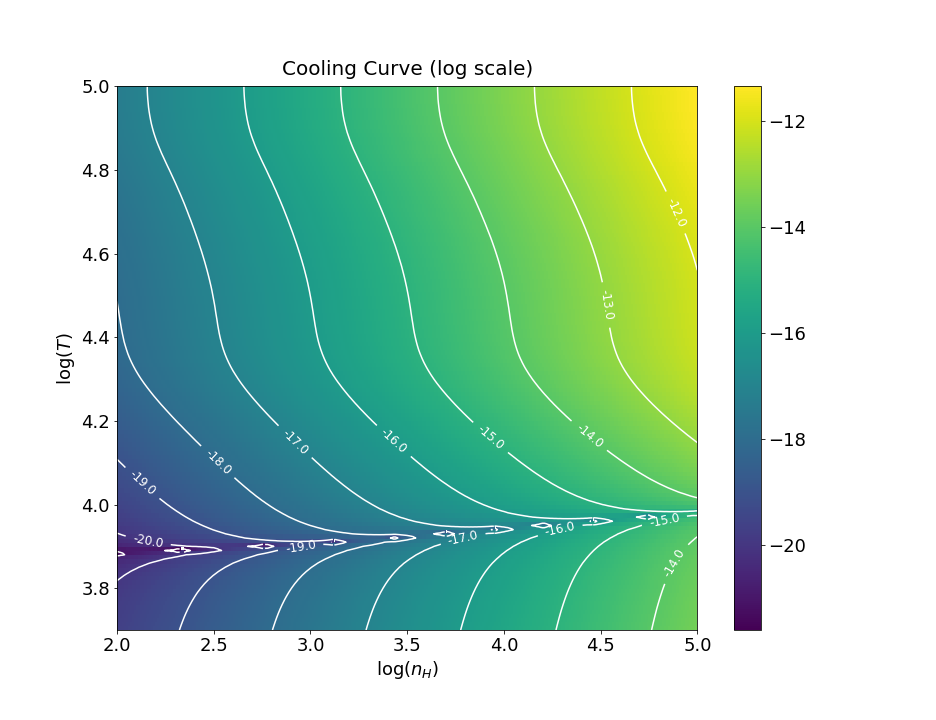
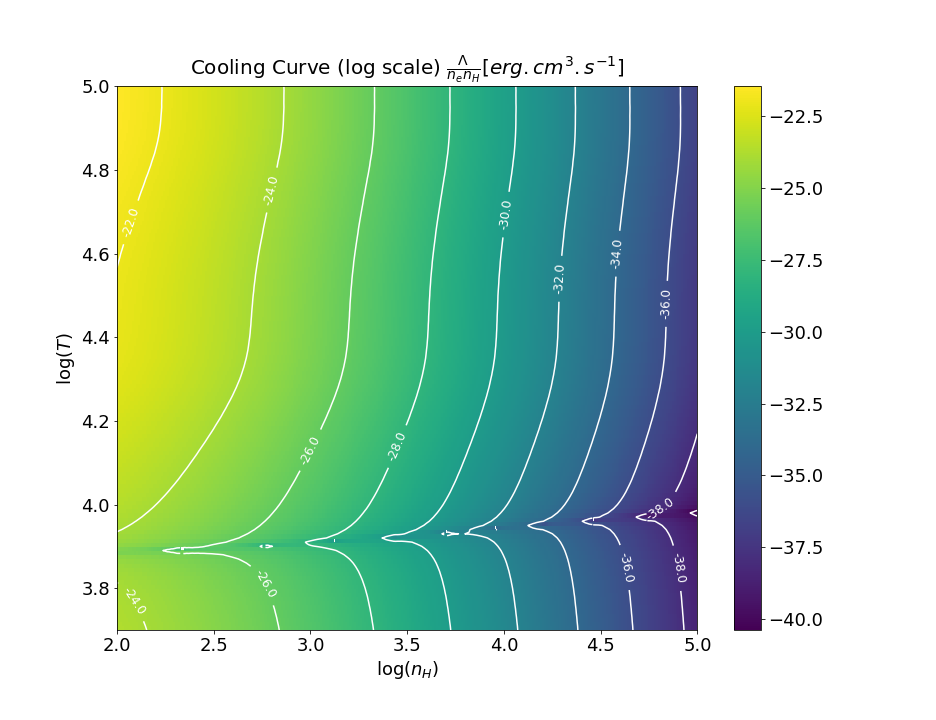
Cooling corrected

diff --git a/plot.py b/plot.py
@@ -74,7 +74,7 @@ figure = corner.corner(samples, labels=[r"$\log(n_H)$", r"$\log(T)$"],
                        )
 plt.show()
 """
-cool = np.log10(np.abs(10.**data[:,3] - 10.**data[:,4]))
+cool = np.log10(np.abs((10.**data[:,3] - 10.**data[:,4]))/10**(data[:,0]*data[:,2]))
 counter = 0
 nene, TT = np.meshgrid(ne,T)
 cool_cont = np.zeros((len(T),len(ne)))
@@ -91,7 +91,7 @@ CS = plt.contour(ne,T,cool_cont, 10,colors='white')
 plt.clabel(CS, fontsize=12, inline=1, fmt='%1.1f')
 plt.xlabel(r'$\log(n_H)$',size=18)
 plt.ylabel(r'$\log(T)$',size=18)
-plt.title(r'Cooling Curve (log scale)',size=20,y=1.01)
+plt.title(r'Cooling Curve (log scale) $\frac{\Lambda}{n_e n_H} [erg.cm^3.s^{-1}]$',size=20,y=1.01)
 rc('xtick', labelsize=18) 
 rc('ytick', labelsize=18)
 plt.savefig('cooling.png')
